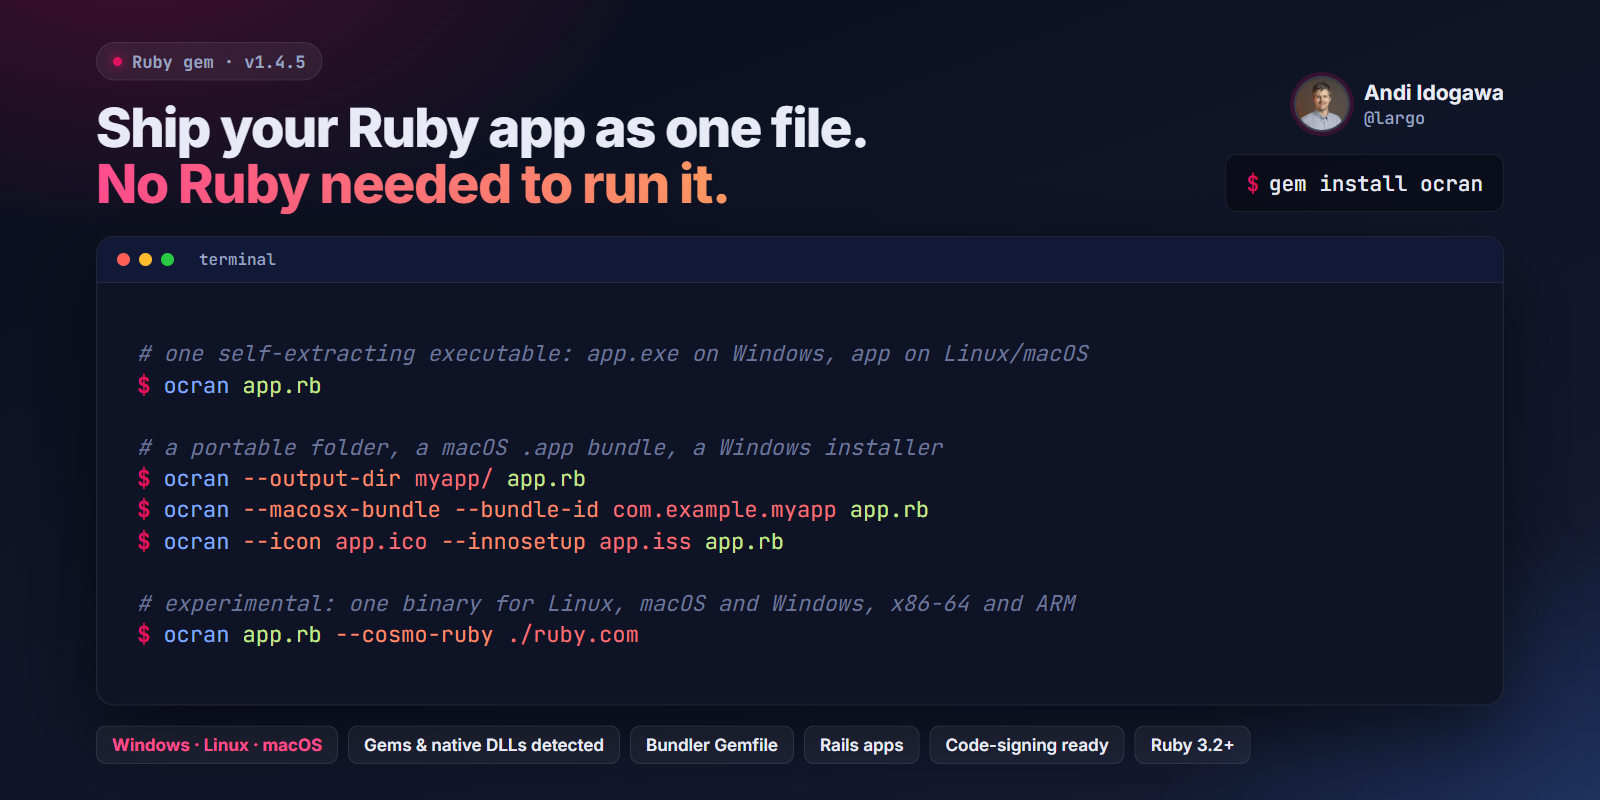
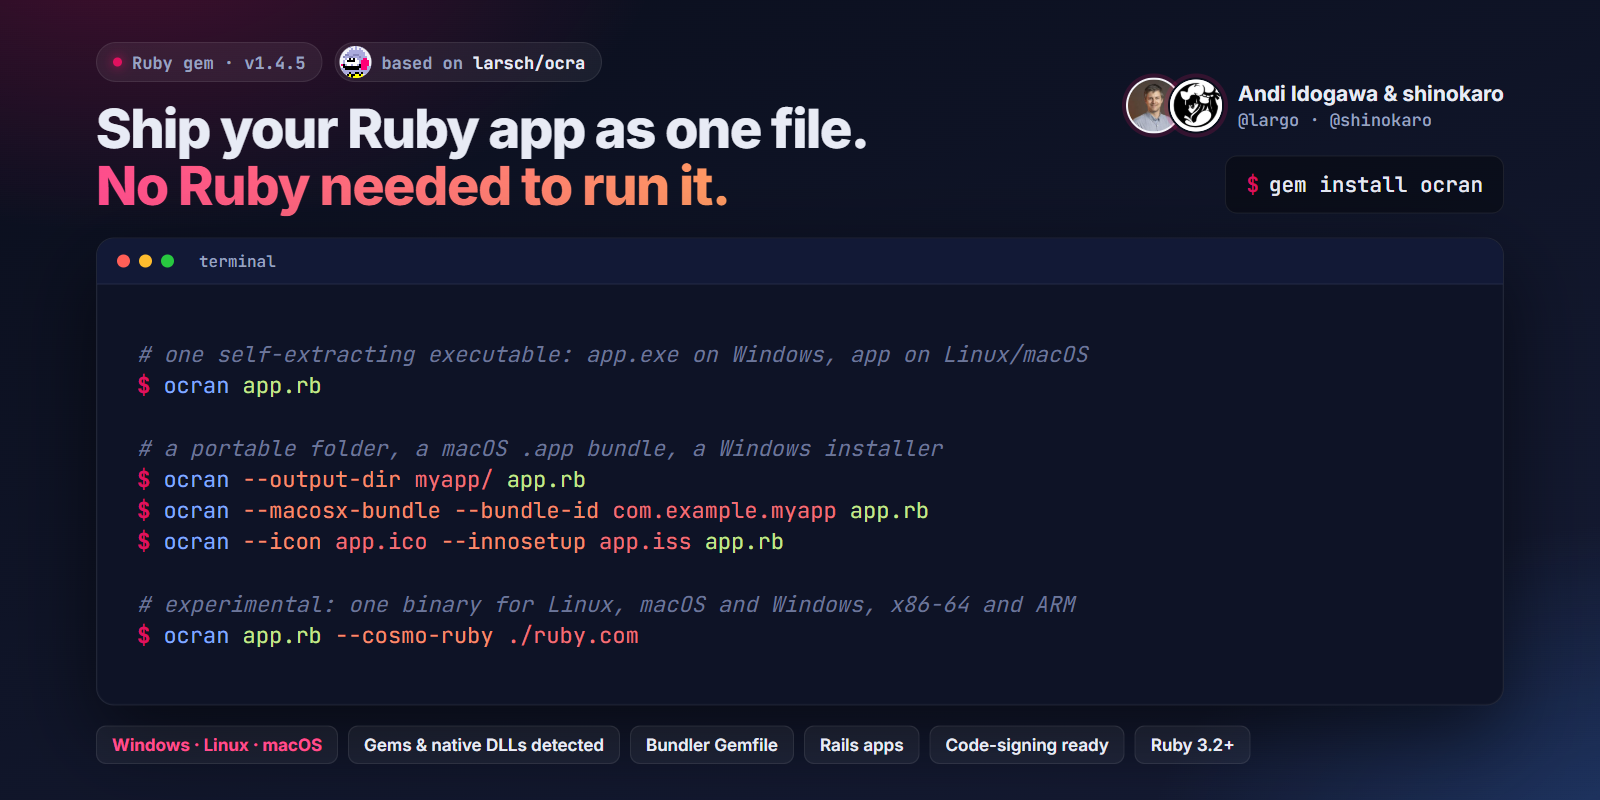
Social card: credit shinokaro and larsch/ocra
shinokaro joins the byline, and a pill says OCRAN is based on larsch/ocra, each with their GitHub avatar.

diff --git a/docs/social/card.html b/docs/social/card.html
@@ -42,6 +42,10 @@
     font: 600 17px 'JetBrains Mono', monospace; color: var(--muted); margin-bottom: 18px;
   }
   .pill .dot { width: 9px; height: 9px; border-radius: 50%; background: var(--accent-1); box-shadow: 0 0 12px var(--accent-1); }
+  .pills { display: flex; gap: 12px; }
+  .pill.credit { padding: 3px 16px 3px 4px; }
+  .pill.credit b { color: var(--text); font-weight: 700; }
+  .pill.credit img { width: 32px; height: 32px; border-radius: 50%; background: #f1f2f8; image-rendering: pixelated; }
   h1 { font-size: 54px; font-weight: 800; letter-spacing: -1.5px; line-height: 1.05; }
   h1 .accent {
     background: linear-gradient(90deg, var(--headline-from), var(--headline-to)); -webkit-background-clip: text; background-clip: text; color: transparent;
@@ -49,10 +53,12 @@
 
   .side { display: flex; flex-direction: column; align-items: flex-end; gap: 22px; }
   .byline { display: flex; align-items: center; gap: 14px; }
+  .byline .faces { display: flex; }
   .byline img {
-    width: 56px; height: 56px; border-radius: 50%; object-fit: cover;
+    width: 56px; height: 56px; border-radius: 50%; object-fit: cover; background: #f1f2f8;
     border: 2px solid rgba(255, 255, 255, 0.18); box-shadow: 0 0 0 4px color-mix(in srgb, var(--accent-1) 18%, transparent);
   }
+  .byline img + img { margin-left: -14px; border-color: var(--bg-1); }
   .byline .name { font: 700 21px 'Inter', sans-serif; }
   .byline .handle { font: 500 17px 'JetBrains Mono', monospace; color: var(--muted); margin-top: 2px; }
   .install {
@@ -97,13 +103,16 @@
 <div class="card">
   <header>
     <div>
-      <div class="pill"><span class="dot"></span>Ruby gem · v1.4.5</div>
+      <div class="pills">
+        <div class="pill"><span class="dot"></span>Ruby gem · v1.4.5</div>
+        <div class="pill credit"><img src="avatar-larsch.png" alt="">based on <b>larsch/ocra</b></div>
+      </div>
       <h1>Ship your Ruby app as one file.<br><span class="accent">No Ruby needed to run it.</span></h1>
     </div>
     <div class="side">
       <div class="byline">
-        <img src="avatar.jpg" alt="">
-        <div><div class="name">Andi Idogawa</div><div class="handle">@largo</div></div>
+        <div class="faces"><img src="avatar.jpg" alt=""><img src="avatar-shinokaro.png" alt=""></div>
+        <div><div class="name">Andi Idogawa &amp; shinokaro</div><div class="handle">@largo · @shinokaro</div></div>
       </div>
       <div class="install"><span class="prompt">$</span>gem install ocran</div>
     </div>
